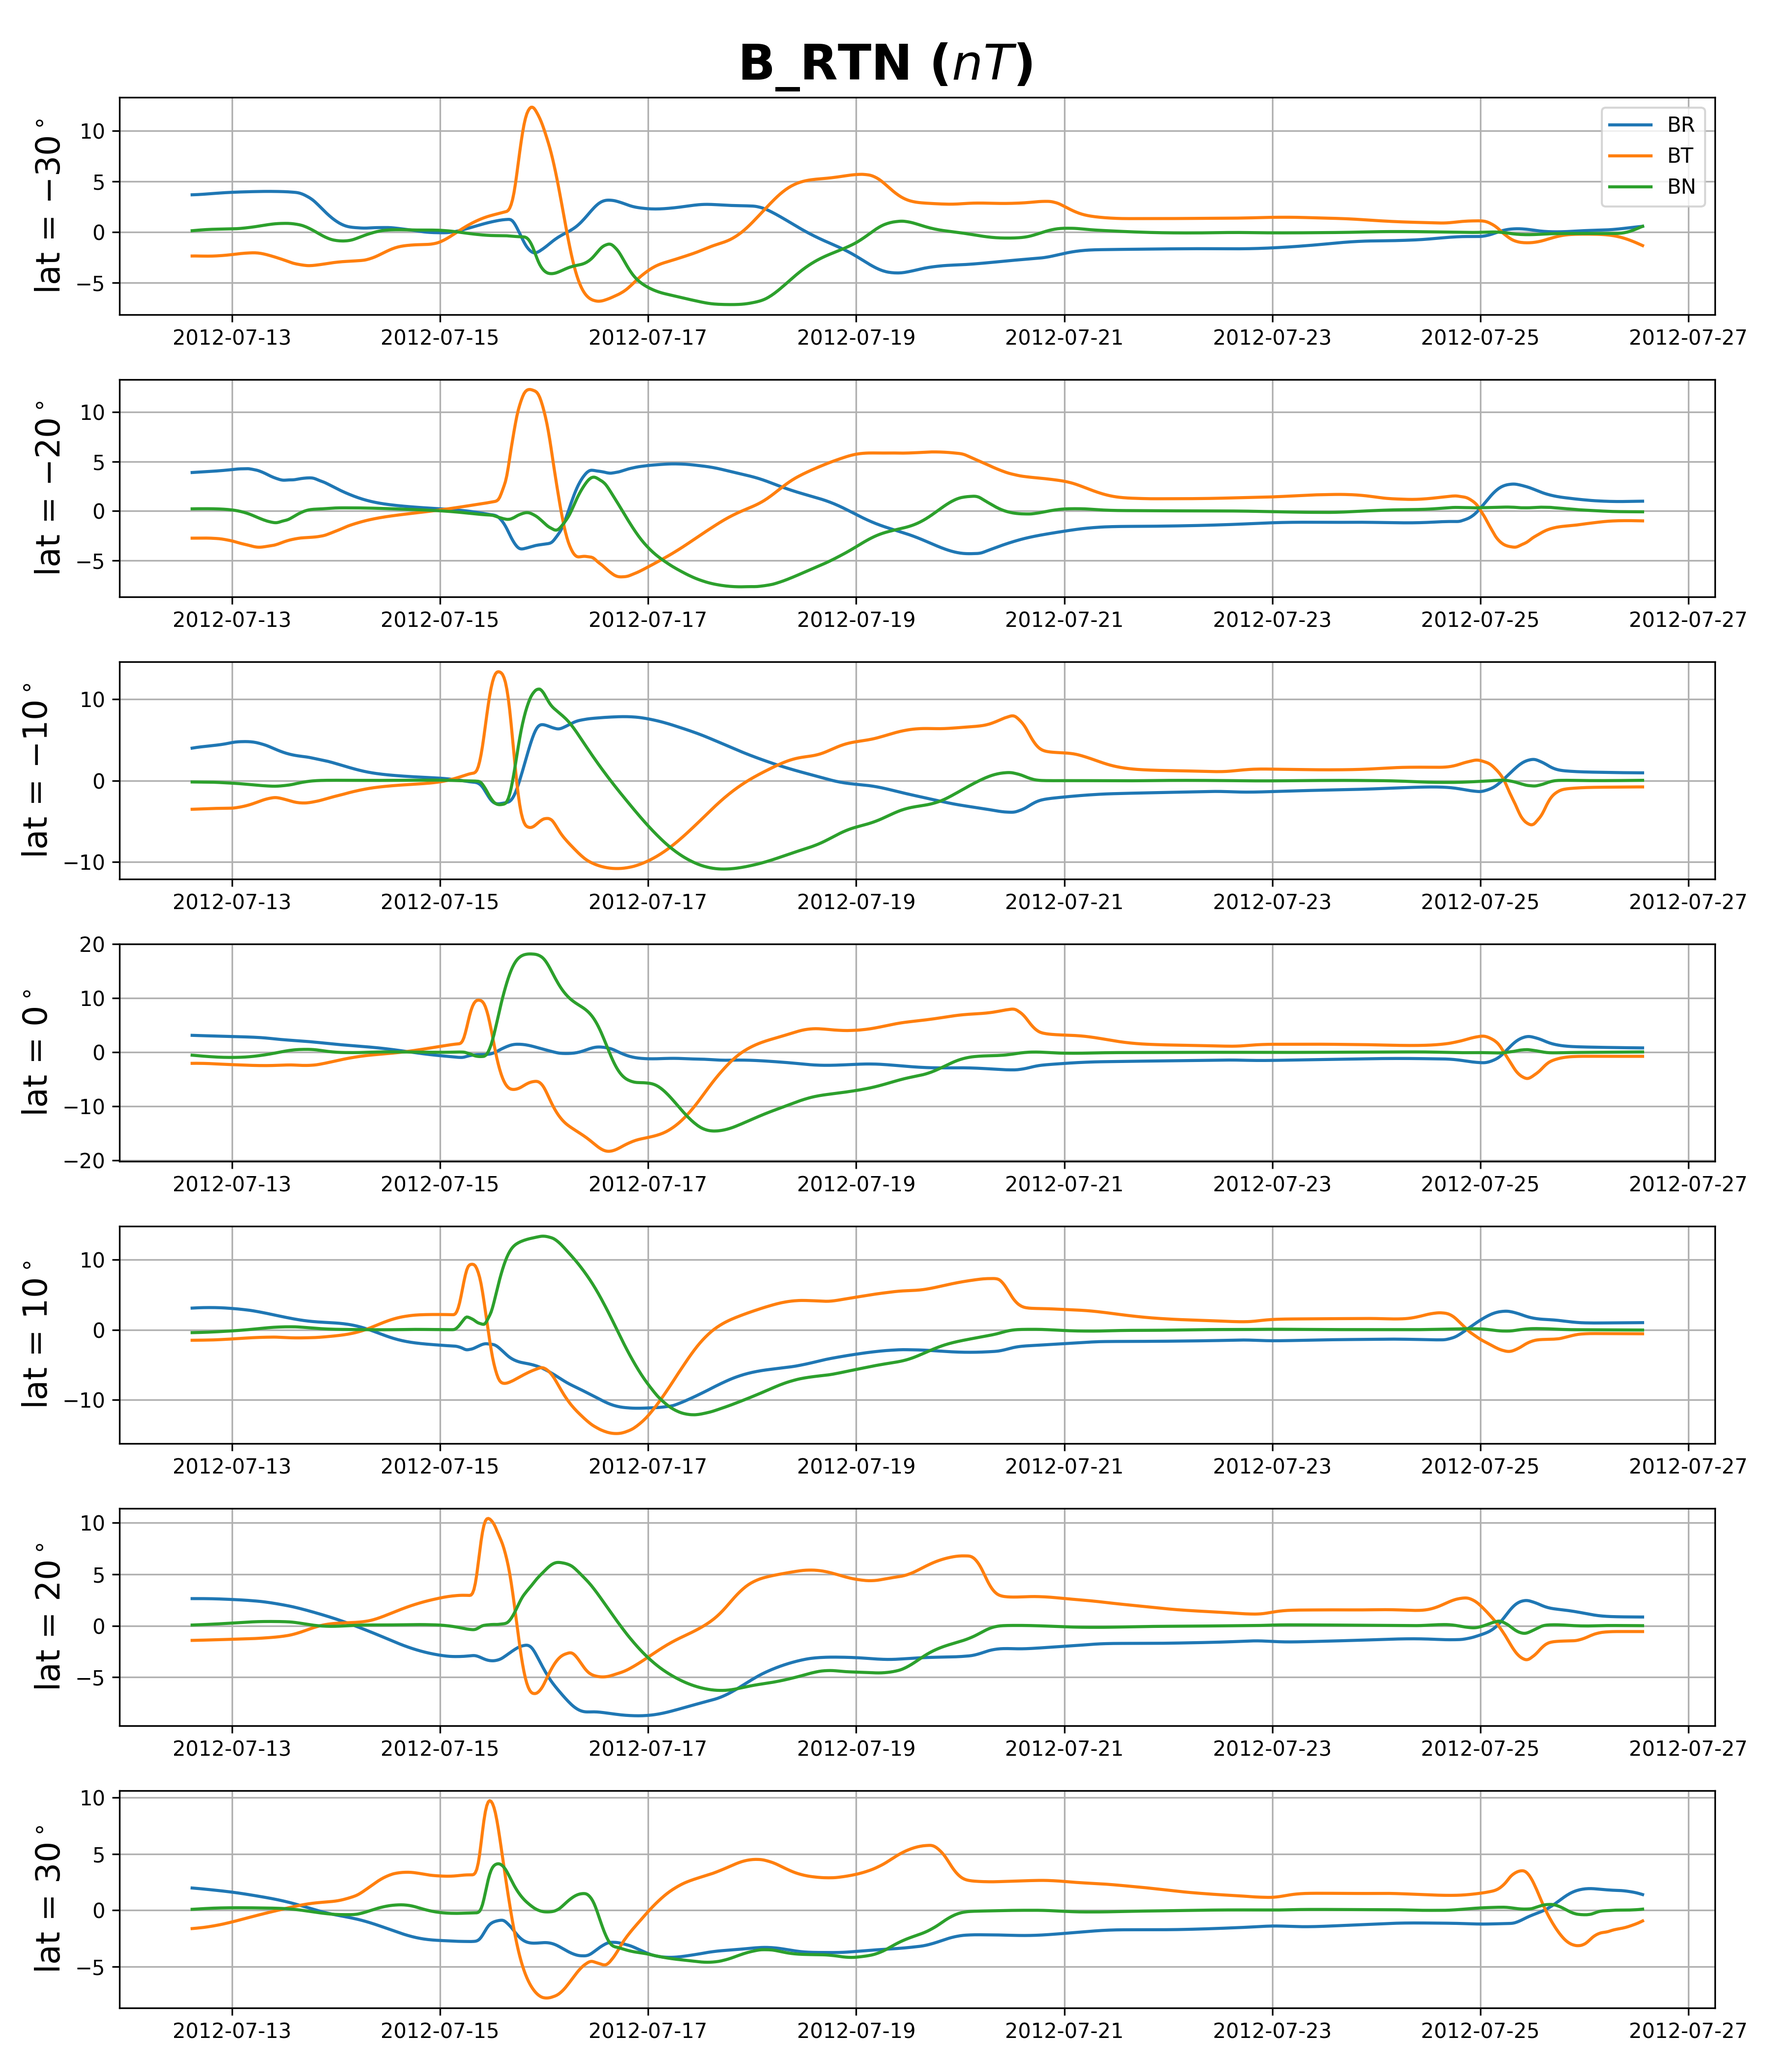
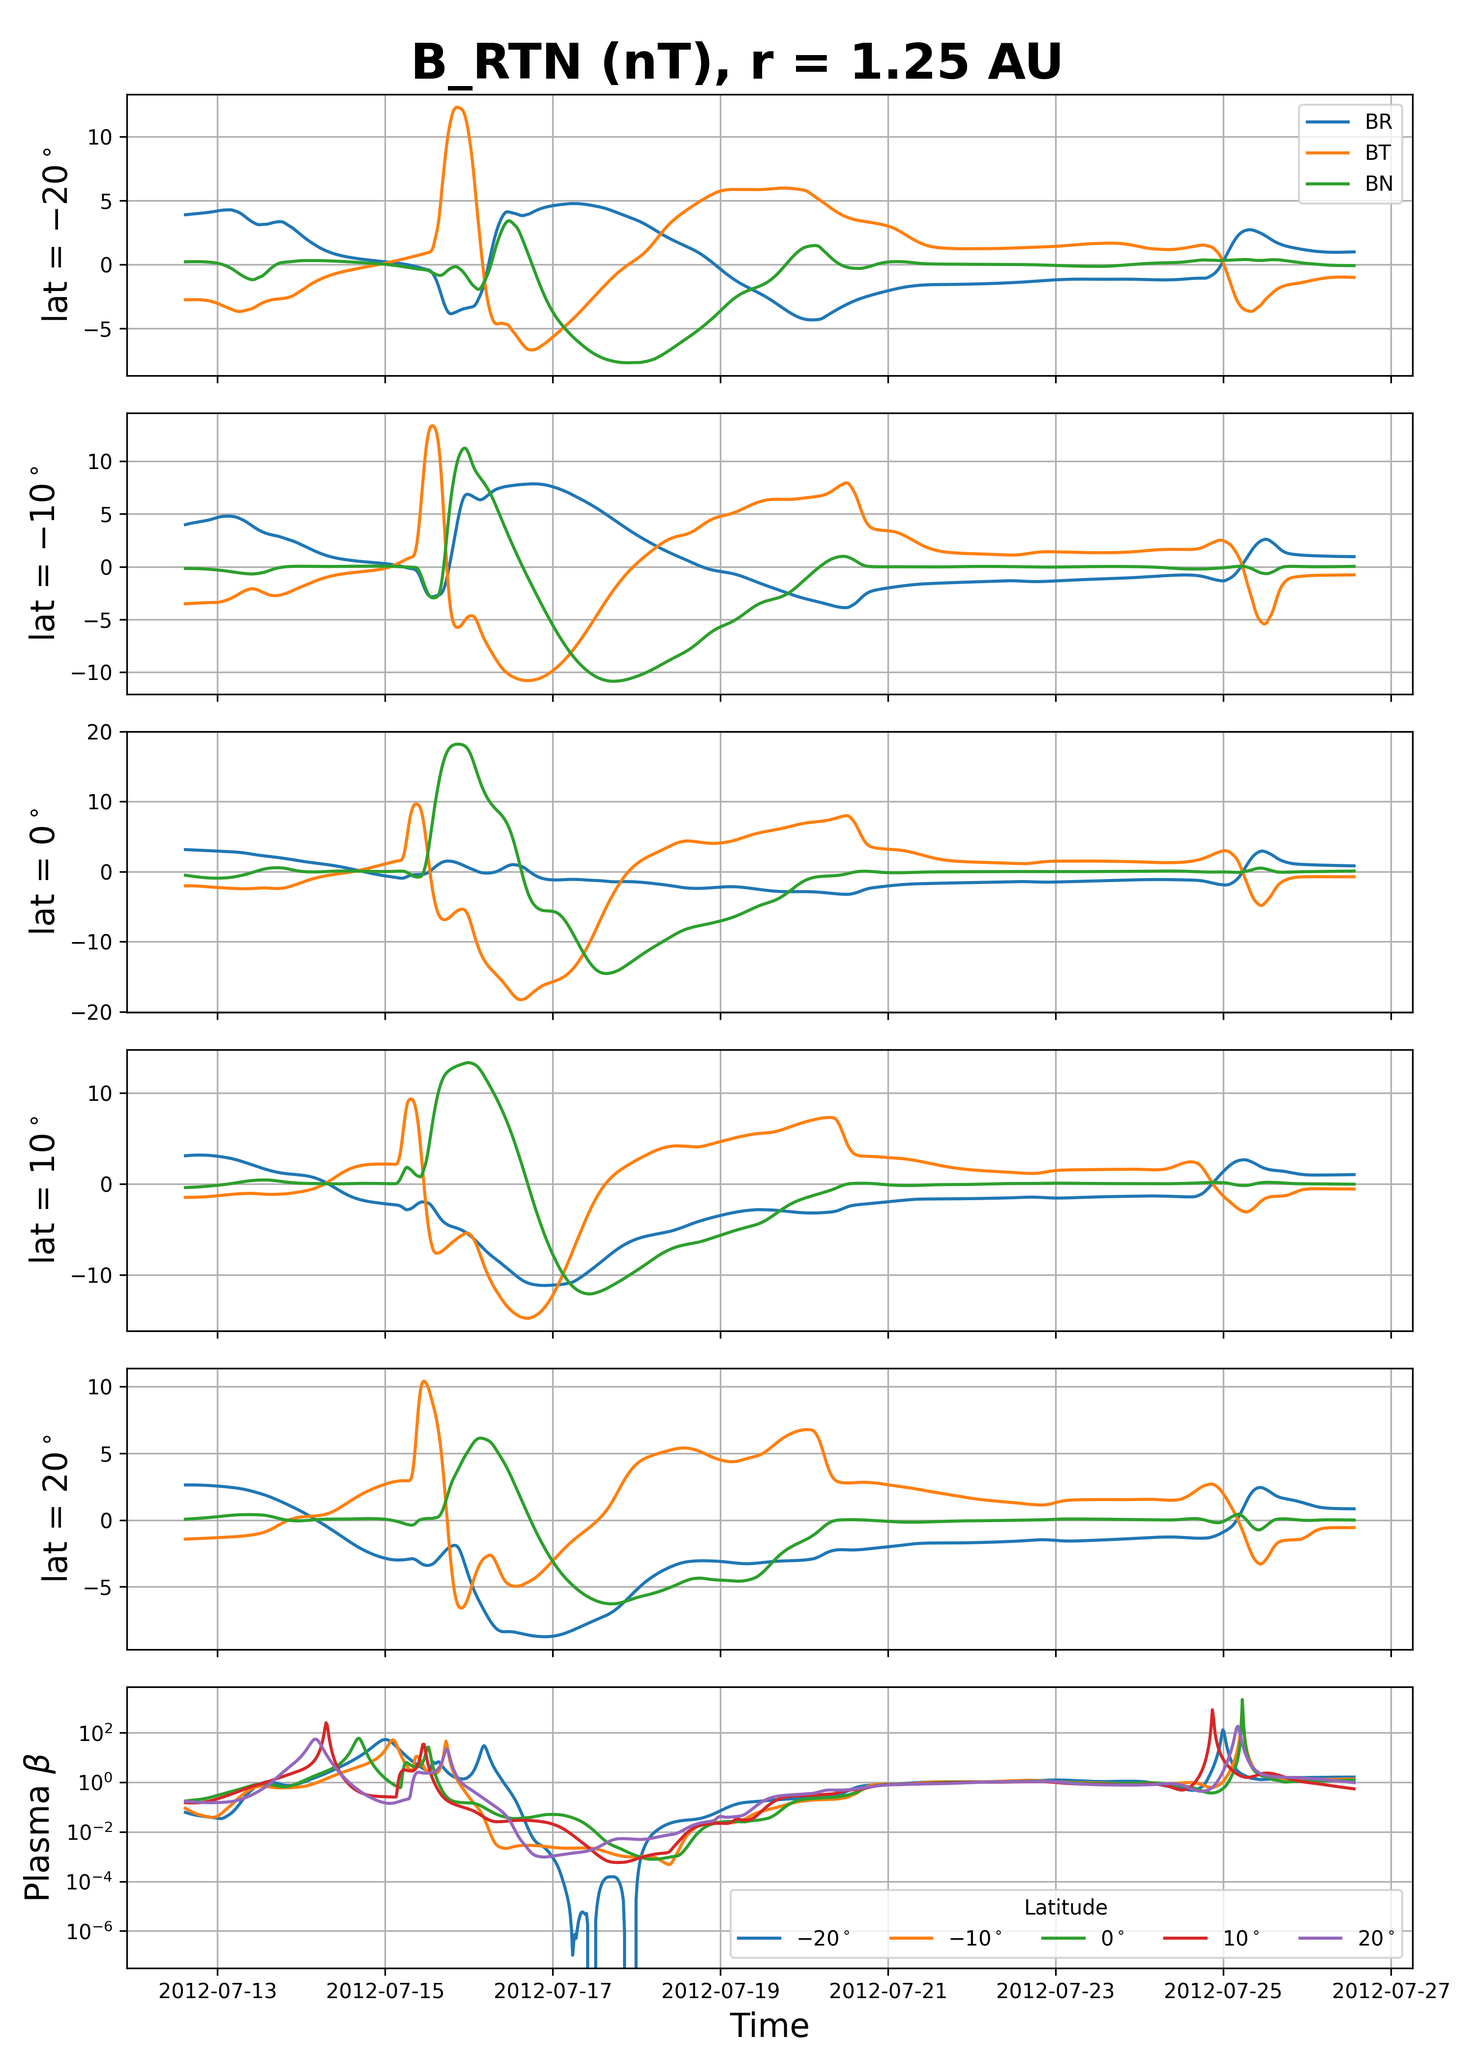
commiting the changes on Oct 18th, 2026

Changed region(s): [[0.0, 0.0, 0.961, 0.9981], [0.0, 0.3743, 0.031, 0.4367], [0.0, 0.2183, 0.031, 0.2807]]

diff --git a/scripts/simulation_post_processing/B_predictions/Erika_2026_redo/magnetic_structure.py b/scripts/simulation_post_processing/B_predictions/Erika_2026_redo/magnetic_structure.py
@@ -18,9 +18,9 @@ from datetime import timedelta, datetime
 # pl.Config.set_tbl_rows(-1)      # polars settings to show all the rows
 
 # what variation to analyze
-variation = "radial"        # options: "radial", "longitudinal", "latitudinal"
+variation = "latitudinal"        # options: "radial", "longitudinal", "latitudinal"
 radii_lat_lon_analysis = [0.33, 1.0]
-offsets_to_plot = [-30, -20, -10, 0, 10, 20, 30]
+offsets_to_plot = [-20, -10, 0, 10, 20]
 
 # Boltzmann constant in J/K, and mu_0 in H/m
 k_B = 1.380649e-23 
@@ -160,7 +160,7 @@ def _read_probe_axes(h5, probe_count):
 def _nearest_axis_index(axis, requested):
     return int(np.nanargmin(np.abs(axis.astype(float) - requested)))
 
-# This function is only for CMEs:
+# This function is only for CMEs
 def radius_fraction_to_au(radius_fraction):
     """Convert the stored radial coordinate to the physical AU coordinate."""
     simulation_inner_radius_au = 0.33
@@ -273,7 +273,7 @@ if __name__ == "__main__":
             axs[3].plot(probe_data["time"], probe_data["density"])
             axs[4].plot(probe_data["time"], probe_data["T"])
             axs[5].plot(probe_data["time"], probe_data["plasma_beta"])
-            axs[5].set_ylim(top=15, bottom = 0)
+            axs[5].set_yscale('log')
 
             # set the labels and legends
             axs[0].set_ylabel("|B| [nT]", fontsize=16)
@@ -301,16 +301,17 @@ if __name__ == "__main__":
             fig.savefig(f"Radial_evolution/Radial_evolution_{name}.png", dpi=300)
             plt.close(fig)
 
-
     ########## THE LONGITUDINAL VARIATIONS PLOTS ##########
     if variation == "longitudinal":
         # the radial loop
         for r in radii_lat_lon_analysis:
             radius_au = radius_fraction_to_au(r)
-            fig, axs = plt.subplots(len(offsets_to_plot), 1, figsize=(10, 14))
-            fig2, axs2 = plt.subplots(len(offsets_to_plot), 1, figsize=(10, 14))
-            fig.suptitle("|B| ($nT$)", fontsize=24, fontweight="bold")
-            fig2.suptitle("B_RTN ($nT$)", fontsize=24, fontweight="bold")
+            name = f"r_{radius_au:.2f}_AU"
+            # Each radius needs fresh axes so curves cannot carry over.
+            fig, axs = plt.subplots(len(offsets_to_plot) + 1, 1, figsize=(10, 14), sharex=True)
+            fig2, axs2 = plt.subplots(len(offsets_to_plot) + 1, 1, figsize=(10, 14), sharex=True)
+            fig.suptitle(f"|B| (nT), r = {radius_au:.2f} AU", fontsize=24, fontweight="bold")
+            fig2.suptitle(f"B_RTN (nT), r = {radius_au:.2f} AU", fontsize=24, fontweight="bold")
 
             for i in range(len(offsets_to_plot)):
                 # get longitude to plot
@@ -335,17 +336,14 @@ if __name__ == "__main__":
                     (-pl.col("Bz") / 10.0).alias("Bz"),
                 ])
 
-                # calculate |B| and |V|
+                # calculate |B|
                 probe_data = probe_data.with_columns([
                     (probe_data["Bx"]**2 + probe_data["By"]**2 + probe_data["Bz"]**2).sqrt().alias("|B|")
                 ])
 
                 # plot |B|, B_RTN at longitudes
                 # different subplots correspond to different longitudes
-                label = f"r = {radius_au:.2f} AU, lon = {lon} deg"
-                name = f"r_{radius_au:.2f}_AU"
-
-                # on axs[0] and axs2[0], plot the |B| and B_RTN components respectively
+                # Use one magnetic-field panel per longitude.
                 axs[i].plot(probe_data["time"], probe_data["|B|"])
                 axs2[i].plot(probe_data["time"], probe_data["Bx"], label=f"BR")
                 axs2[i].plot(probe_data["time"], probe_data["By"], label=f"BT")
@@ -353,30 +351,43 @@ if __name__ == "__main__":
                 axs[i].set_ylabel(rf"lon = ${lon}^\circ$", fontsize=16)
                 axs2[i].set_ylabel(rf"lon = ${lon}^\circ$", fontsize=16)
 
-                for ax, ax2 in zip(axs.flat, axs2.flat):
-                    ax.grid()
-                    ax2.grid()
-                
                 if i == 0:
                     axs2[i].legend()
 
-                # lets do tight layout
-                fig.tight_layout()
-                fig2.tight_layout()
+                # Compare beta at every longitude in the final panel.
+                probe_data = plasma_beta(probe_data)
+                for beta_ax in (axs[-1], axs2[-1]):
+                    beta_ax.plot(
+                        probe_data["time"], probe_data["plasma_beta"],
+                        label=rf"${lon}^\circ$",
+                    )
+
+            for axes in (axs, axs2):
+                for ax in axes:
+                    ax.grid()
+                axes[-1].set_ylabel(r"Plasma $\beta$", fontsize=16)
+                axes[-1].set_xlabel("Time", fontsize=16)
+                axes[-1].legend(title="Longitude", ncol=len(offsets_to_plot))
+                axes[-1].set_yscale('log')
+            fig.tight_layout()
+            fig2.tight_layout()
 
             # save the figure outside the loop
             fig.savefig(f"Longitudinal_variation/Longitudinal_variations_B_{name}.png", dpi=300)
             fig2.savefig(f"Longitudinal_variation/Longitudinal_variations_BRTN_{name}.png", dpi=300)
+            plt.close(fig)
+            plt.close(fig2)
 
     ########## THE LATITUDINAL VARIATION PLOTS ##########
     if variation == "latitudinal":
         # the radial loop
         for r in radii_lat_lon_analysis:
             radius_au = radius_fraction_to_au(r)
-            fig, axs = plt.subplots(len(offsets_to_plot), 1, figsize=(12, 14))
-            fig2, axs2 = plt.subplots(len(offsets_to_plot), 1, figsize=(12, 14))
-            fig.suptitle("|B| ($nT$)", fontsize=24, fontweight="bold")
-            fig2.suptitle("B_RTN ($nT$)", fontsize=24, fontweight="bold")
+            name = f"r_{radius_au:.2f}_AU"
+            fig, axs = plt.subplots(len(offsets_to_plot) + 1, 1, figsize=(10, 14), sharex=True)
+            fig2, axs2 = plt.subplots(len(offsets_to_plot) + 1, 1, figsize=(10, 14), sharex=True)
+            fig.suptitle(f"|B| (nT), r = {radius_au:.2f} AU", fontsize=24, fontweight="bold")
+            fig2.suptitle(f"B_RTN (nT), r = {radius_au:.2f} AU", fontsize=24, fontweight="bold")
 
             for i in range(len(offsets_to_plot)):
                 # get latitude to plot
@@ -401,17 +412,14 @@ if __name__ == "__main__":
                     (-pl.col("Bz") / 10.0).alias("Bz"),
                 ])
 
-                # calculate |B| and |V|
+                # calculate |B|
                 probe_data = probe_data.with_columns([
                     (probe_data["Bx"]**2 + probe_data["By"]**2 + probe_data["Bz"]**2).sqrt().alias("|B|")
                 ])
 
                 # plot |B|, B_RTN at latitudes
                 # different subplots correspond to different latitudes
-                label = f"r = {radius_au:.2f} AU, lat = {lat} deg"
-                name = f"r_{radius_au:.2f}_AU"
-
-                # on axs[0] and axs2[0], plot the |B| and B_RTN components respectively
+                # Use one magnetic-field panel per latitude.
                 axs[i].plot(probe_data["time"], probe_data["|B|"])
                 axs2[i].plot(probe_data["time"], probe_data["Bx"], label=f"BR")
                 axs2[i].plot(probe_data["time"], probe_data["By"], label=f"BT")
@@ -419,17 +427,29 @@ if __name__ == "__main__":
                 axs[i].set_ylabel(rf"lat = ${lat}^\circ$", fontsize=16)
                 axs2[i].set_ylabel(rf"lat = ${lat}^\circ$", fontsize=16)
 
-                for ax, ax2 in zip(axs.flat, axs2.flat):
-                    ax.grid()
-                    ax2.grid()
-
                 if i == 0:
                     axs2[i].legend()
 
-                # lets do tight layout
-                fig.tight_layout()
-                fig2.tight_layout()
+                # Compare beta at every latitude in the final panel.
+                probe_data = plasma_beta(probe_data)
+                for beta_ax in (axs[-1], axs2[-1]):
+                    beta_ax.plot(
+                        probe_data["time"], probe_data["plasma_beta"],
+                        label=rf"${lat}^\circ$",
+                    )
+
+            for axes in (axs, axs2):
+                for ax in axes:
+                    ax.grid()
+                axes[-1].set_ylabel(r"Plasma $\beta$", fontsize=16)
+                axes[-1].set_xlabel("Time", fontsize=16)
+                axes[-1].legend(title="Latitude", ncol=len(offsets_to_plot))
+                axes[-1].set_yscale('log')
+            fig.tight_layout()
+            fig2.tight_layout()
 
             # save the figure outside the loop
             fig.savefig(f"Latitudinal_variation/Latitudinal_variations_B_{name}.png", dpi=300)
             fig2.savefig(f"Latitudinal_variation/Latitudinal_variations_BRTN_{name}.png", dpi=300)
+            plt.close(fig)
+            plt.close(fig2)
